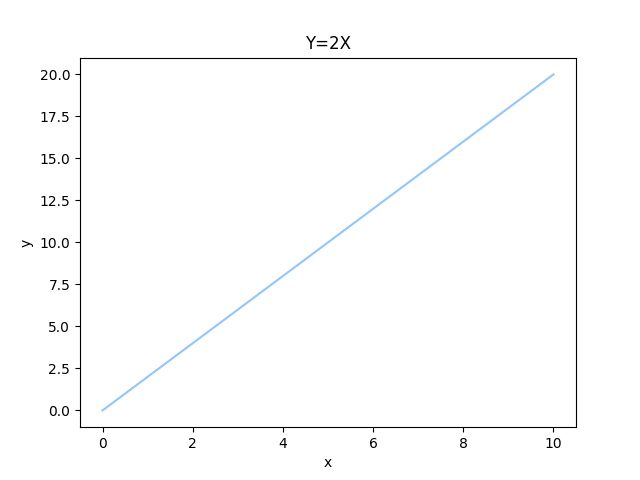
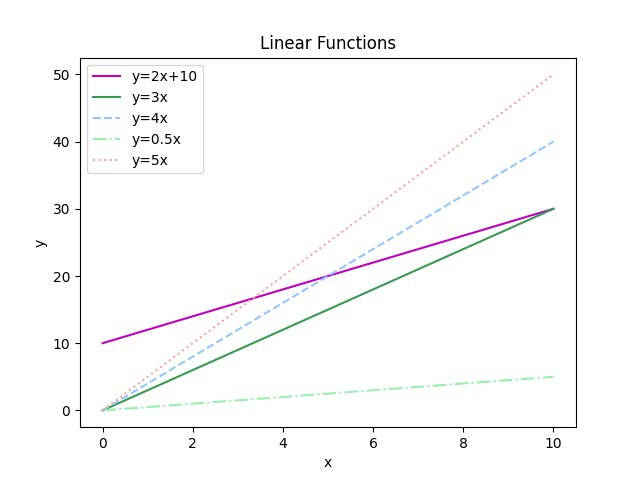
commit

diff --git a/lineplots.py b/lineplots.py
@@ -8,19 +8,31 @@ print(plt.style.available)
 x_vals = np.linspace(0,10,100)
 # line Plots work well when graphing Functions
 # For example, y=f(x) or sin cos tan
-plt.plot(x_vals, np.sin(x_vals))
-plt.plot(x_vals, np.cos(x_vals))
+plt.plot(x_vals, np.sin(x_vals),label='Y=sin(x)')
+plt.plot(x_vals, np.cos(x_vals),label='Y=cos(x)')
 
 # Show figure in the dev environment
 #plt.show()
+plt.legend()
+# Save figure in a PNG file
 plt.savefig('lineplot.png')
 plt.close() # Clear the figure before making another 
 
 # Demo on customization
-# function below y=2x
-plt.plot(x_vals, 2* x_vals)
-plt.title('Y=2X')
+# function below y=mx+b
+m = 2 # slope
+b = 10 # y-intercept
+# set the y value to equation
+plt.plot(x_vals, (m * x_vals + b), label='y=2x+10',color='m')
+plt.plot(x_vals, 3 * x_vals, label='y=3x',color='#379a4e')
+plt.plot(x_vals,4 * x_vals, label='y=4x',linestyle='dashed')
+plt.plot(x_vals, 0.5 * x_vals,label='y=0.5x',linestyle='dashdot')
+plt.plot(x_vals,5 * x_vals,label='y=5x',linestyle='dotted')
+# When we have an equation
+plt.title('Linear Functions')
 plt.xlabel('x')
 plt.ylabel('y')
+plt.legend()
 plt.savefig('lineplot2.png')
 plt.close
+
